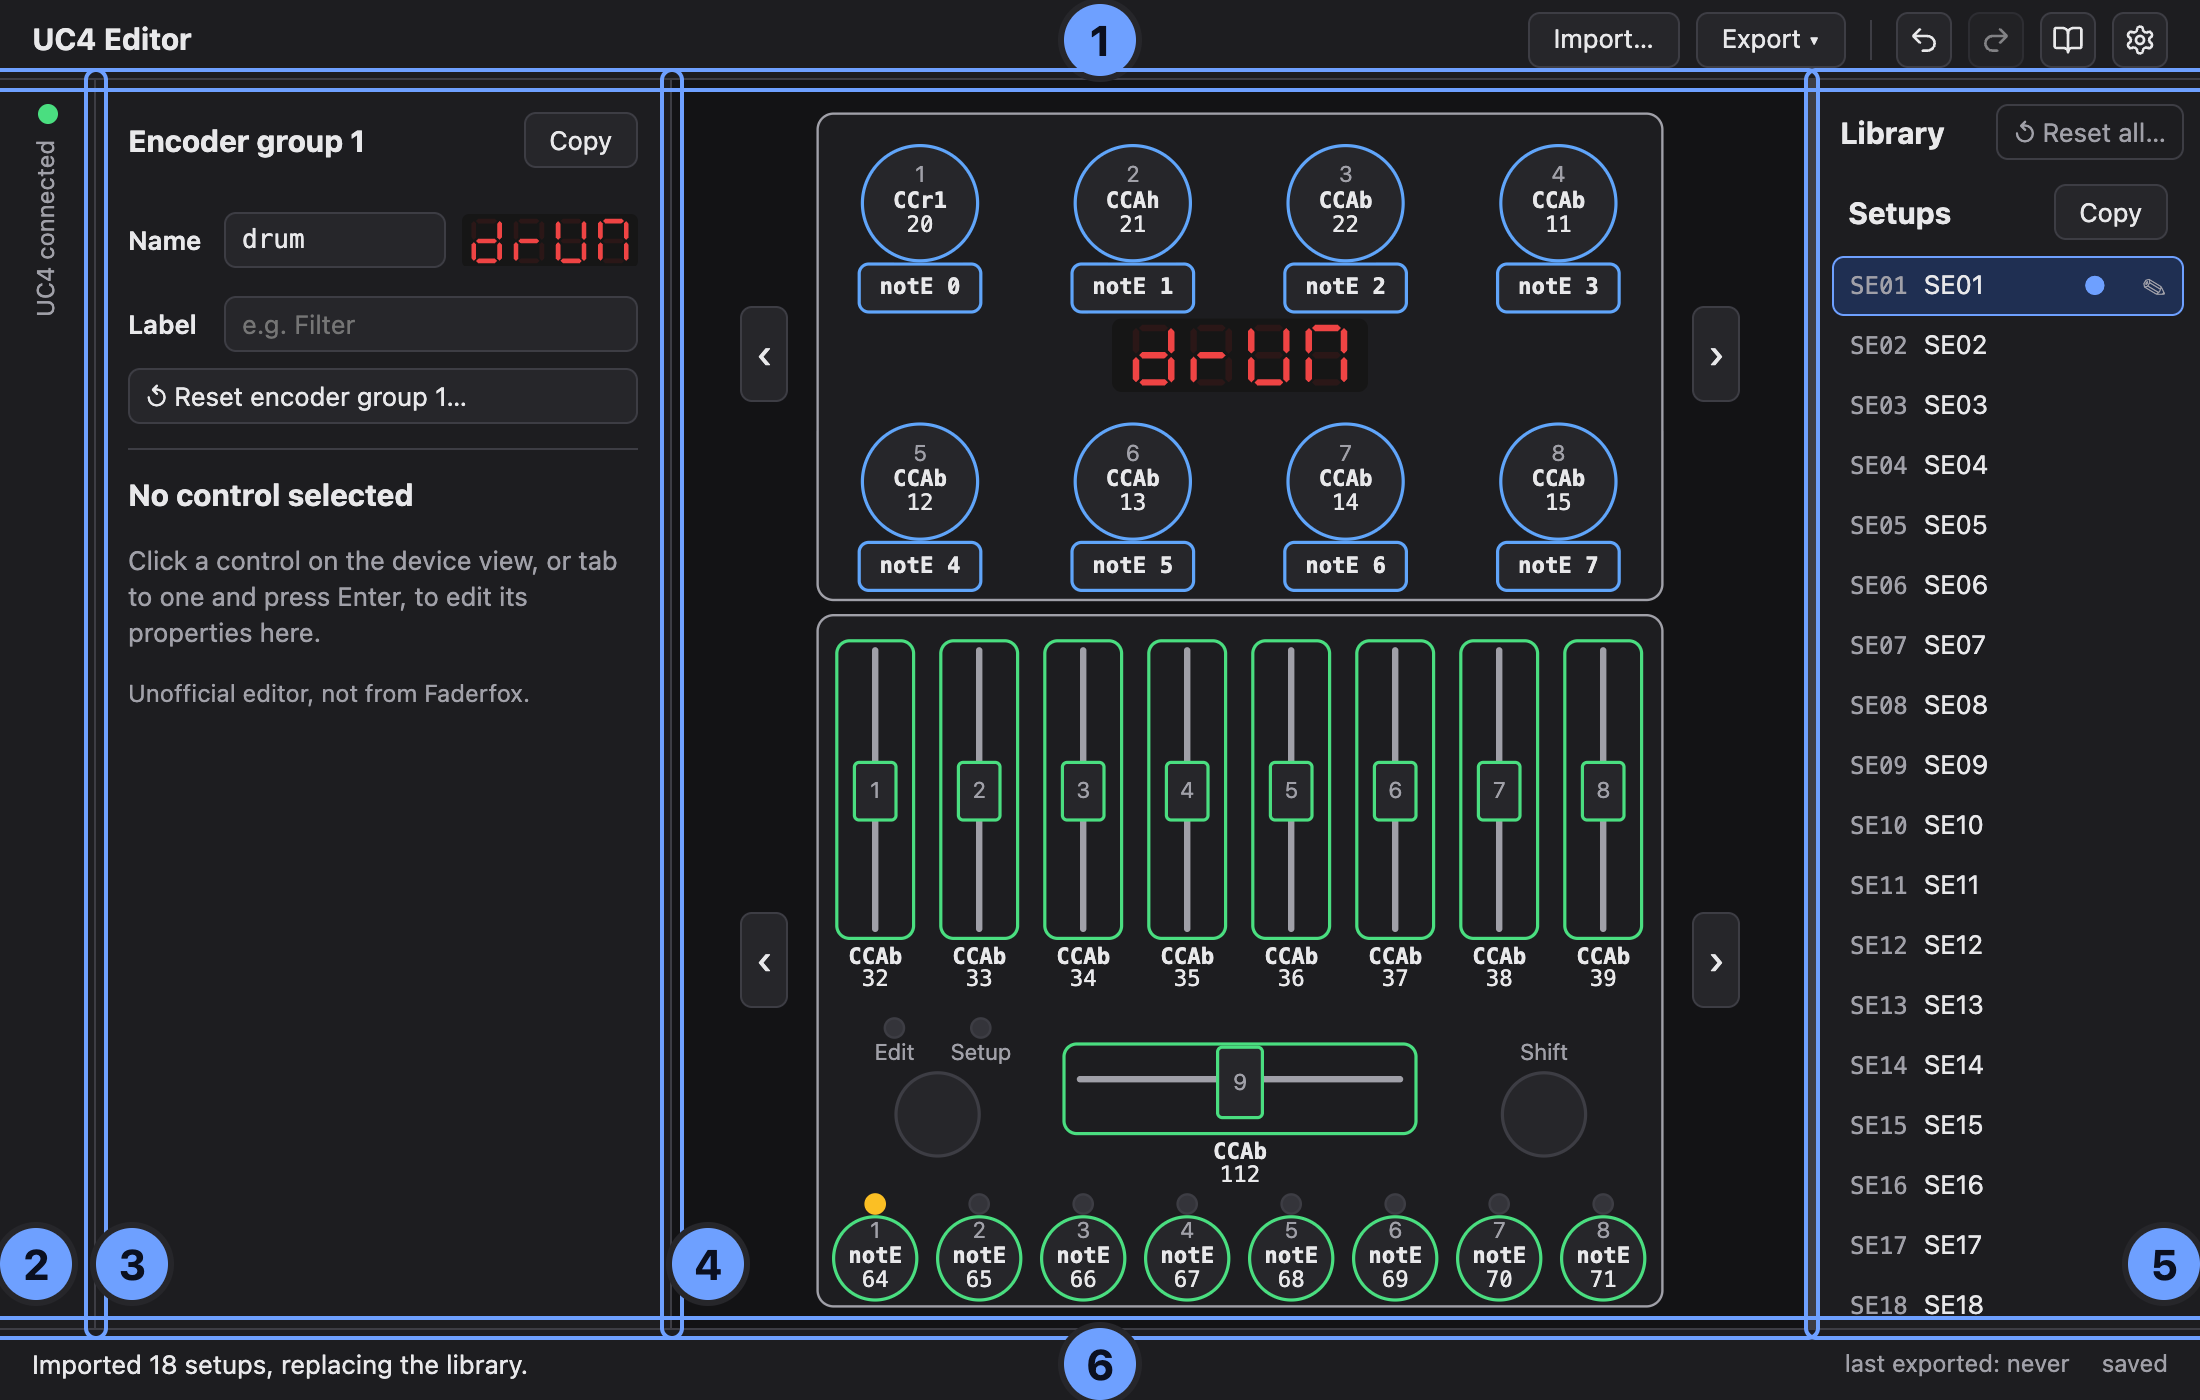
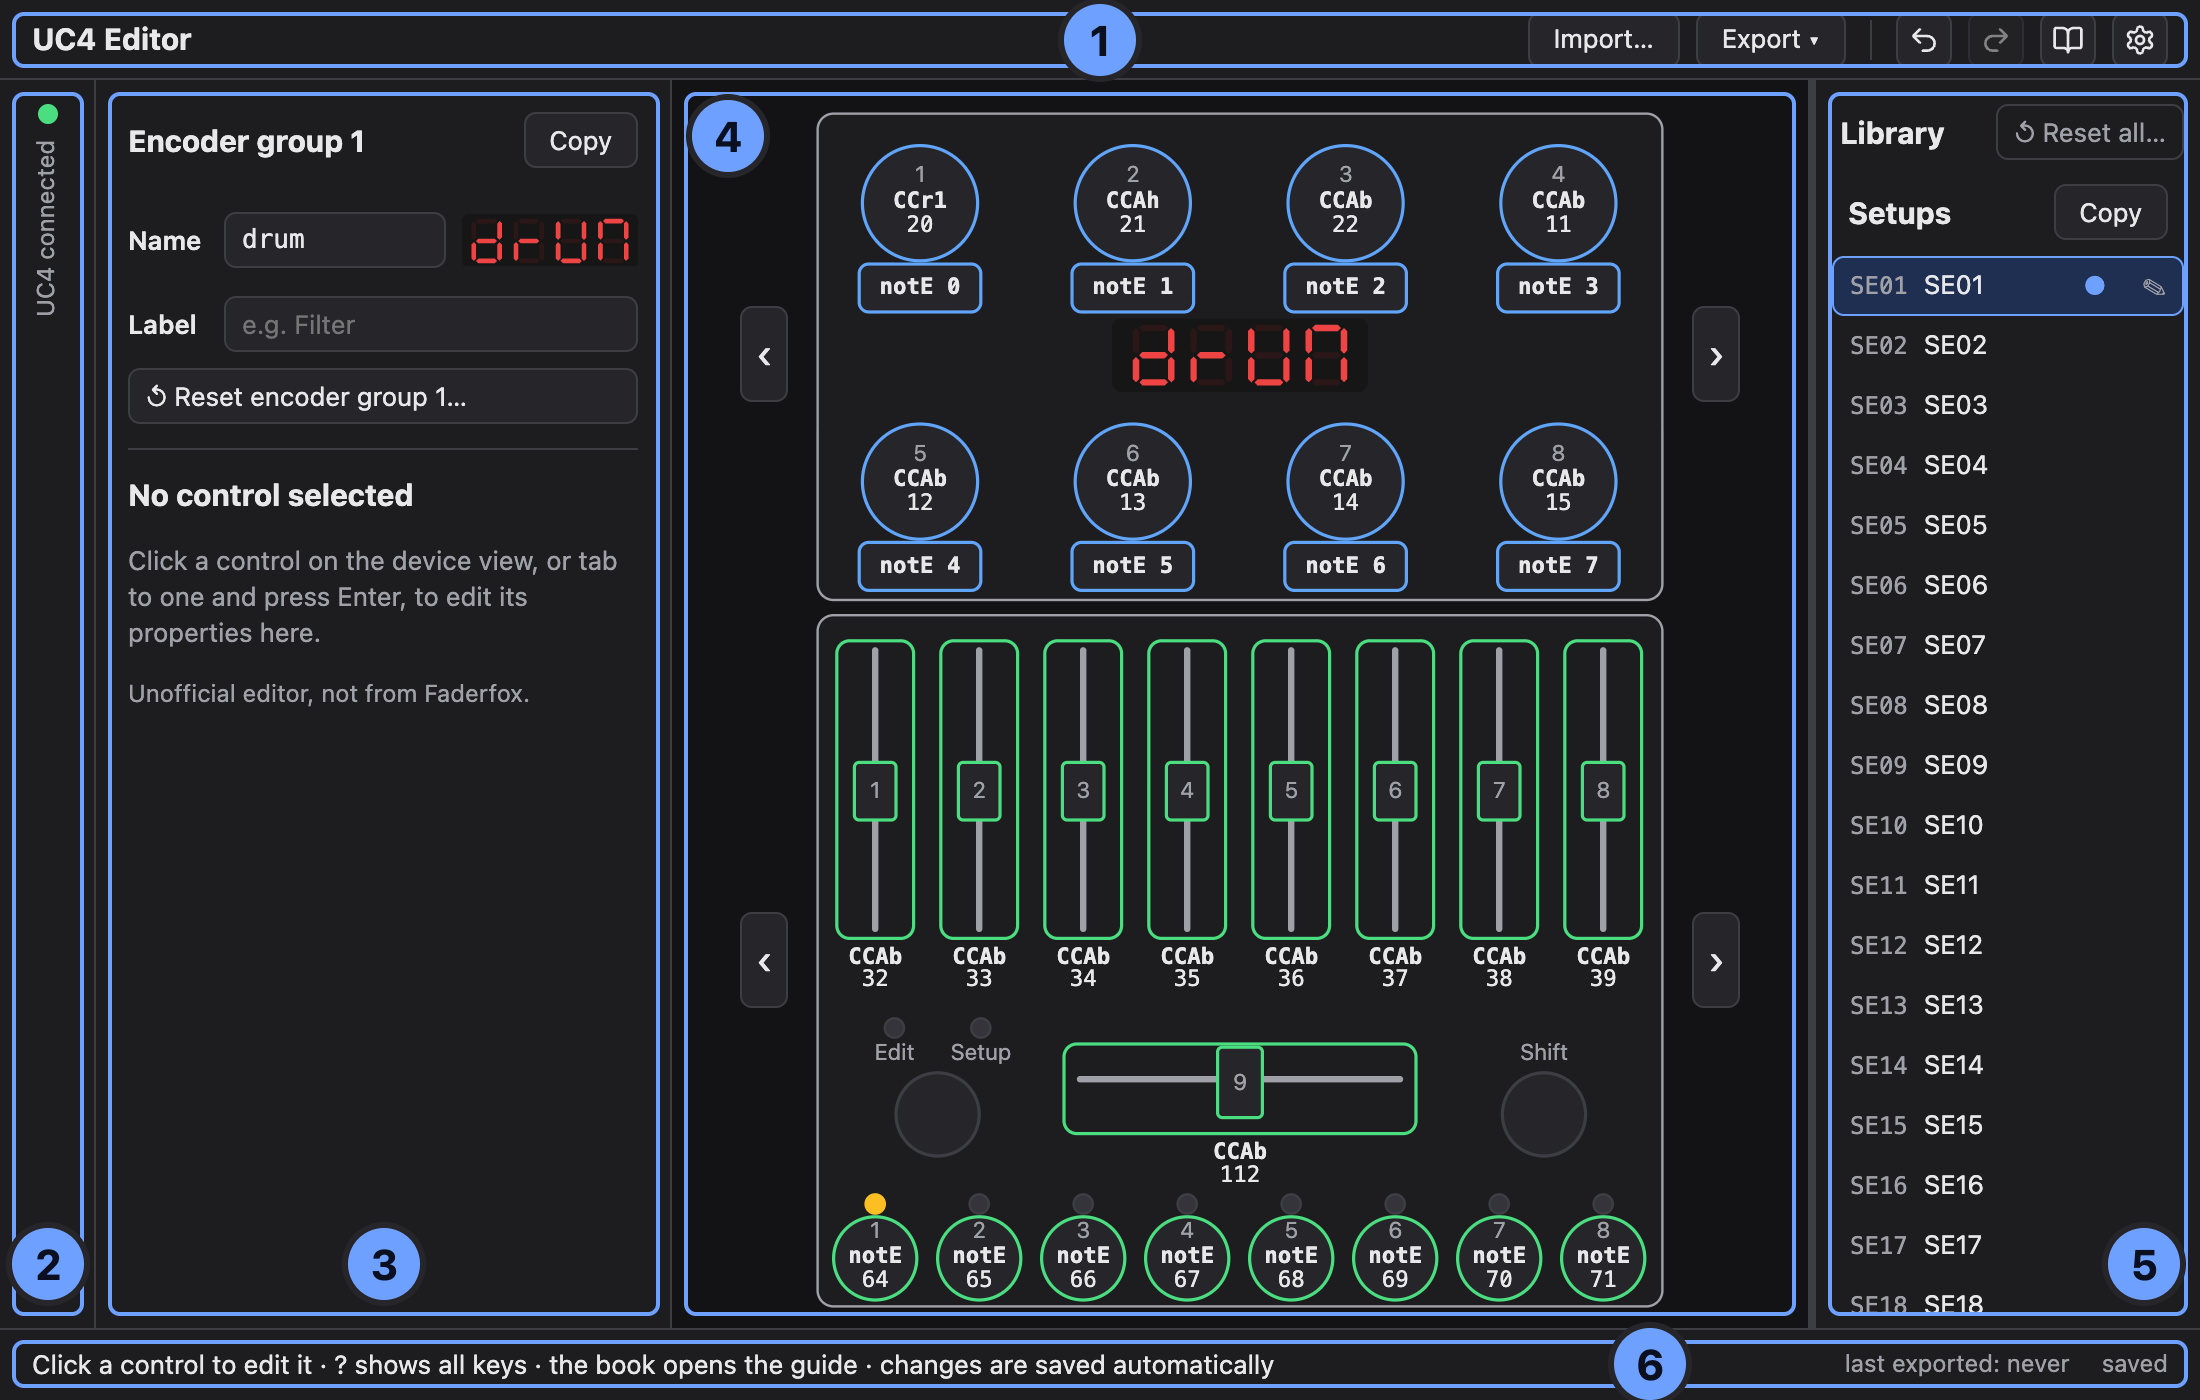
docs(guide): editor-areas picture calmer, Tour keys on the keys page (0012)

Changed region(s): [[0.0, 0.0, 1.0, 1.0]]

diff --git a/tools/guide-shots/markers.ts b/tools/guide-shots/markers.ts
@@ -9,17 +9,19 @@ export interface Marker {
   n: number;
   /** One box around all matched elements together (for example a label and its select), not one box each. */
   union?: boolean;
-  /** Where the number sits: left of the outline (default), straddling its top edge at the right end when there is no room on the left, inside the outline in its bottom-left or bottom-right corner, or in its middle (wide bars and large areas whose neighbours touch them). */
-  dot?: 'left' | 'top-right' | 'bottom-left' | 'bottom-right' | 'middle';
+  /** Where the number sits: left of the outline (default), straddling its top edge at the right end when there is no room on the left, inside the outline in its bottom-left or bottom-right corner, in its top-left corner or the middle of its top edge, the middle of its bottom edge, in its middle or right of the middle (wide bars and large areas whose neighbours touch them). */
+  dot?: 'left' | 'top-right' | 'bottom-left' | 'bottom-right' | 'middle' | 'top-left' | 'top-center' | 'bottom-center' | 'middle-right';
 }
 
 export interface MarkerOptions {
+  /** Draw each outline this many px inside its element instead of around it, so neighbours that touch never share an edge. */
+  inset?: number;
   /** Dim everything except the marked elements (default true); false for a shot that needs the whole page readable. */
   dim?: boolean;
 }
 
 export async function addMarkers(page: Page, markers: Marker[], options: MarkerOptions = {}): Promise<void> {
-  await page.evaluate(({ list, dim }) => {
+  await page.evaluate(({ list, dim, inset }) => {
     const layer = document.createElement('div');
     layer.setAttribute('data-guide-markers', '');
     layer.style.cssText = 'position:fixed;inset:0;pointer-events:none;z-index:2147483647';
@@ -46,7 +48,7 @@ export async function addMarkers(page: Page, markers: Marker[], options: MarkerO
       boxes.forEach(({ el, left, top, right, bottom }) => {
         const w = right - left, h = bottom - top;
         const round = el instanceof SVGElement && Math.abs(w - h) < 0.05 * w;
-        const PAD = 6; // 7 or more would run into the push button label under an encoder
+        const PAD = inset > 0 ? -inset : 6; // outside: 7 or more would run into the push button label under an encoder
         const outline = document.createElement('div');
         outline.style.cssText =
           `position:absolute;left:${left - PAD}px;top:${top - PAD}px;width:${w + 2 * PAD}px;height:${h + 2 * PAD}px;` +
@@ -57,10 +59,11 @@ export async function addMarkers(page: Page, markers: Marker[], options: MarkerO
         // Left of the outline, centred; above it when there is no room on the left.
         const fitsLeft = left - PAD - GAP - DOT >= 0;
         const corner = m.dot === 'top-right';
-        const inside = m.dot === 'bottom-left' || m.dot === 'bottom-right';
-        const mid = m.dot === 'middle';
-        const dx = mid ? left + w / 2 - DOT / 2 : inside ? (m.dot === 'bottom-left' ? left : right - DOT) : corner ? right + PAD - DOT - 4 : fitsLeft ? left - PAD - GAP - DOT : left - PAD;
-        const dy = mid ? top + h / 2 - DOT / 2 : inside ? bottom - DOT - 14 : corner ? top - PAD - DOT / 2 : fitsLeft ? top + h / 2 - DOT / 2 : top - PAD - GAP - DOT;
+        const inside = m.dot === 'bottom-left' || m.dot === 'bottom-right' || m.dot === 'bottom-center';
+        const atTop = m.dot === 'top-left' || m.dot === 'top-center';
+        const mid = m.dot === 'middle' || m.dot === 'middle-right';
+        const dx = m.dot === 'middle-right' ? left + w * 0.75 - DOT / 2 : m.dot === 'top-center' || m.dot === 'bottom-center' ? left + w / 2 - DOT / 2 : m.dot === 'top-left' ? left + 10 : mid ? left + w / 2 - DOT / 2 : inside ? (m.dot === 'bottom-left' ? left + 10 : right - DOT - 10) : corner ? right + PAD - DOT - 4 : fitsLeft ? left - PAD - GAP - DOT : left - PAD;
+        const dy = atTop ? top + 10 : mid ? top + h / 2 - DOT / 2 : inside ? bottom - DOT - 14 : corner ? top - PAD - DOT / 2 : fitsLeft ? top + h / 2 - DOT / 2 : top - PAD - GAP - DOT;
         const dot = document.createElement('div');
         dot.setAttribute('data-guide-box', '');
         dot.textContent = String(m.n);
@@ -94,5 +97,5 @@ export async function addMarkers(page: Page, markers: Marker[], options: MarkerO
       layer.prepend(svg);
     }
     document.body.append(layer);
-  }, { list: markers, dim: options.dim ?? true });
+  }, { list: markers, dim: options.dim ?? true, inset: options.inset ?? 0 });
 }

diff --git a/tools/guide-shots/editor-areas.ts b/tools/guide-shots/editor-areas.ts
@@ -4,15 +4,20 @@ import { newShotPage, save } from './rig.ts';
 import { addMarkers, type Marker } from './markers.ts';
 import { TOUR_AREAS } from '../../src/app/profile/uc4Tour.ts';
 
-// Where each number sits: the areas touch each other, so most numbers stand inside their area, in an empty corner.
+// Where each number sits: inside its area, in an empty place (never over a title or a text).
 const DOTS: Record<string, Marker['dot']> = {
-  toolbar: 'middle', connections: 'bottom-left', properties: 'bottom-left', device: 'bottom-left', setups: 'bottom-right', help: 'middle',
+  toolbar: 'middle', connections: 'bottom-center', properties: 'bottom-center', device: 'top-left', setups: 'bottom-right', help: 'middle-right',
 };
 
 export const name = 'editor-areas';
 
 export async function run(browser: Browser): Promise<void> {
   const page = await newShotPage(browser);
-  await addMarkers(page, TOUR_AREAS.map((a, i) => ({ selector: a.selector as string, n: i + 1, dot: DOTS[a.id] })), { dim: false });
+  // The idle help line, not the import message: select a control, leave edit mode, drop the focus.
+  await page.locator('[data-control="encoders:0"]').click();
+  await page.keyboard.press('Escape');
+  await page.evaluate(() => (document.activeElement as HTMLElement | null)?.blur());
+  await page.mouse.move(2, 2);
+  await addMarkers(page, TOUR_AREAS.map((a, i) => ({ selector: a.selector as string, n: i + 1, dot: DOTS[a.id] })), { dim: false, inset: 6 });
   await save(page, name);
 }

diff --git a/docs/guides/keys.md b/docs/guides/keys.md
@@ -54,6 +54,13 @@ and `Ctrl` on Windows and Linux.
 | --- | --- |
 | `Esc` | Close the Send or Restore window; nothing is sent until you press Send or Restore |
 
+## Tour
+
+| Keys | Action |
+| --- | --- |
+| `←` `→` | Previous or next step |
+| `Esc` | End the tour |
+
 ## Anywhere
 
 | Keys | Action |
